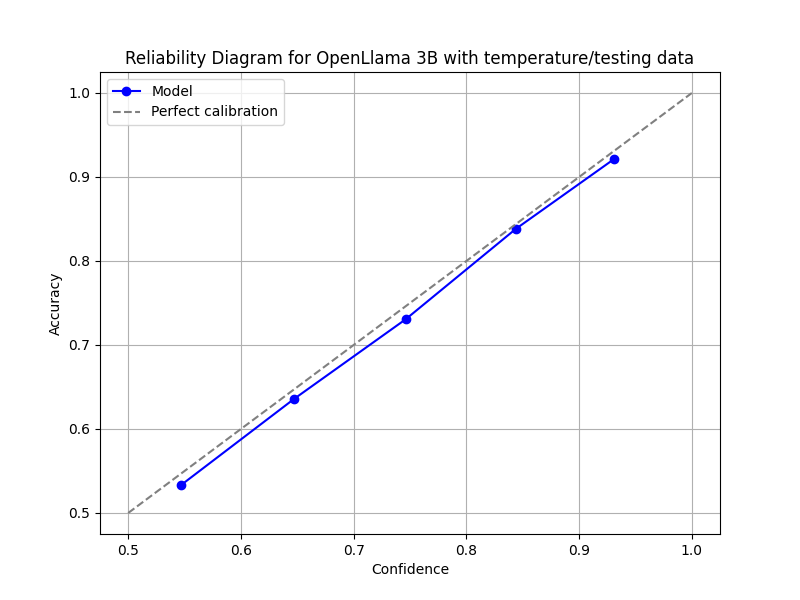
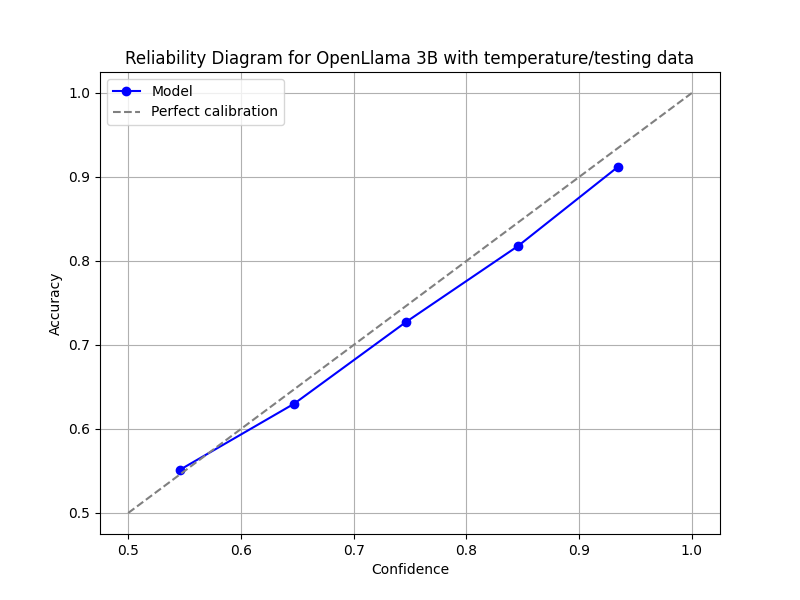
update

diff --git a/reward_experiments.py b/reward_experiments.py
@@ -48,14 +48,14 @@ def preprocess_function(examples):
     return new_examples
 
 # Example usage
-pretrained_model_name_or_path = './right_open_llama_3b_rlhf_rm_bin_temperature_2e-05__temperature_last_checkpoint' 
+pretrained_model_name_or_path = './right_open_llama_3b_rlhf_rm_iterative_temperature_0.5_epoch_2e-05_last_checkpoint' 
 tokenizer = AutoTokenizer.from_pretrained("openlm-research/open_llama_3b")
 if tokenizer.pad_token is None:
     tokenizer.pad_token = tokenizer.eos_token
 model = AutoModelForSequenceClassification.from_pretrained(pretrained_model_name_or_path).to(device)
 
 raw_datasets = load_dataset("Dahoas/full-hh-rlhf")["test"]
-bsz = 30
+bsz = 100
 raw_datasets = raw_datasets.map(
         preprocess_function,
         batched=True,
